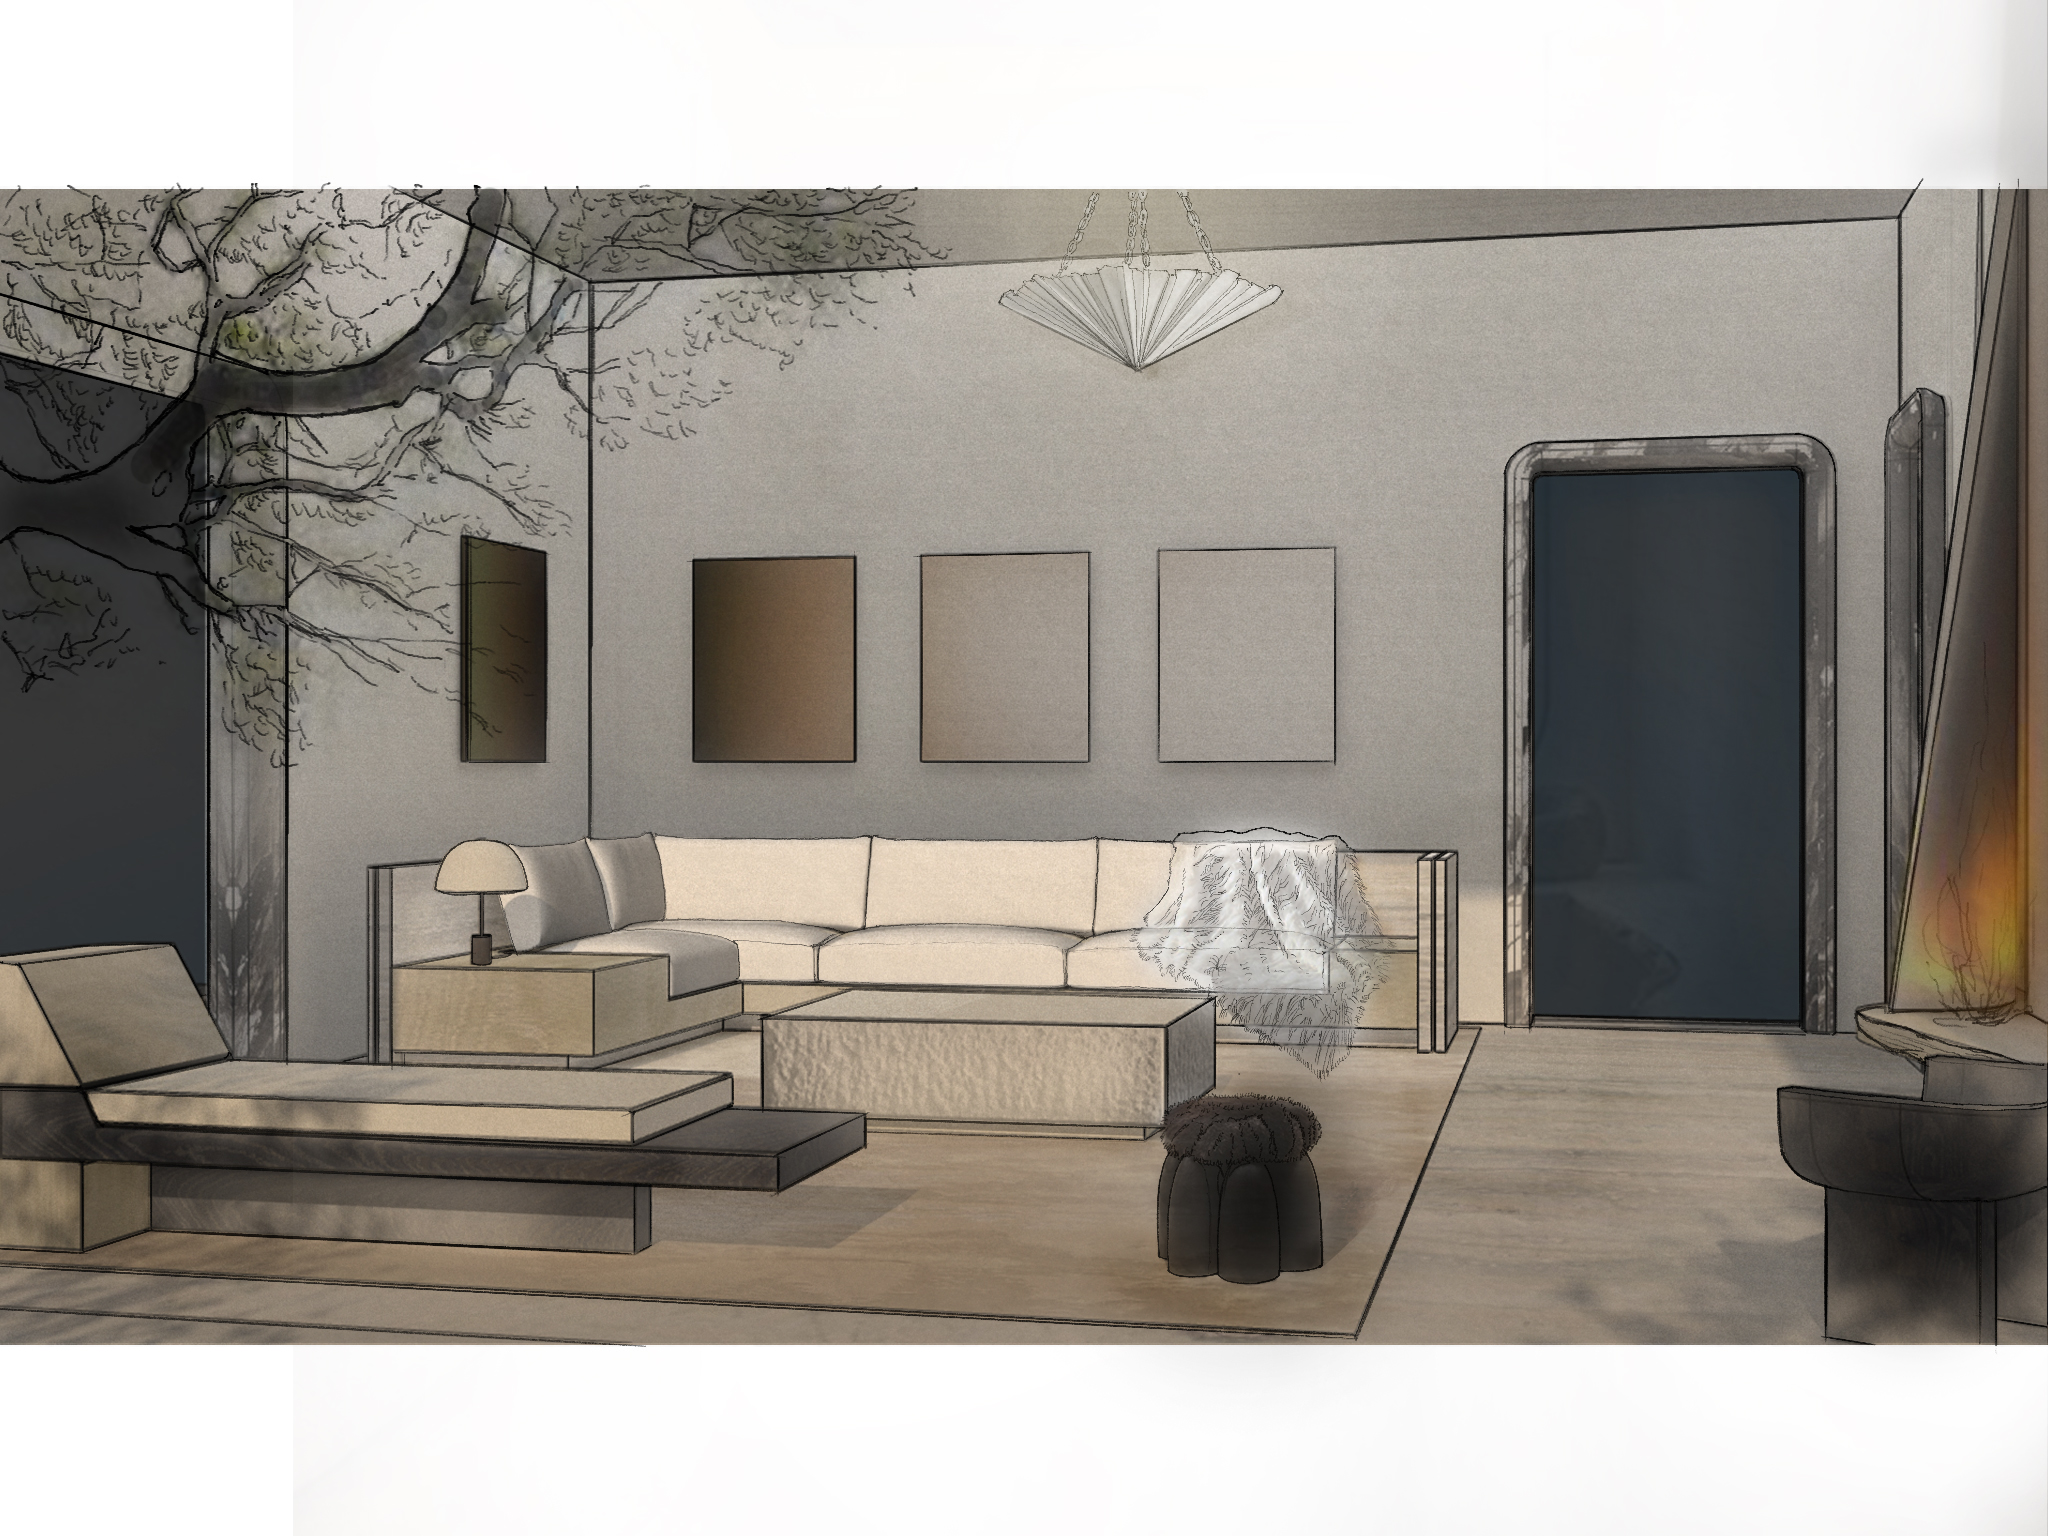
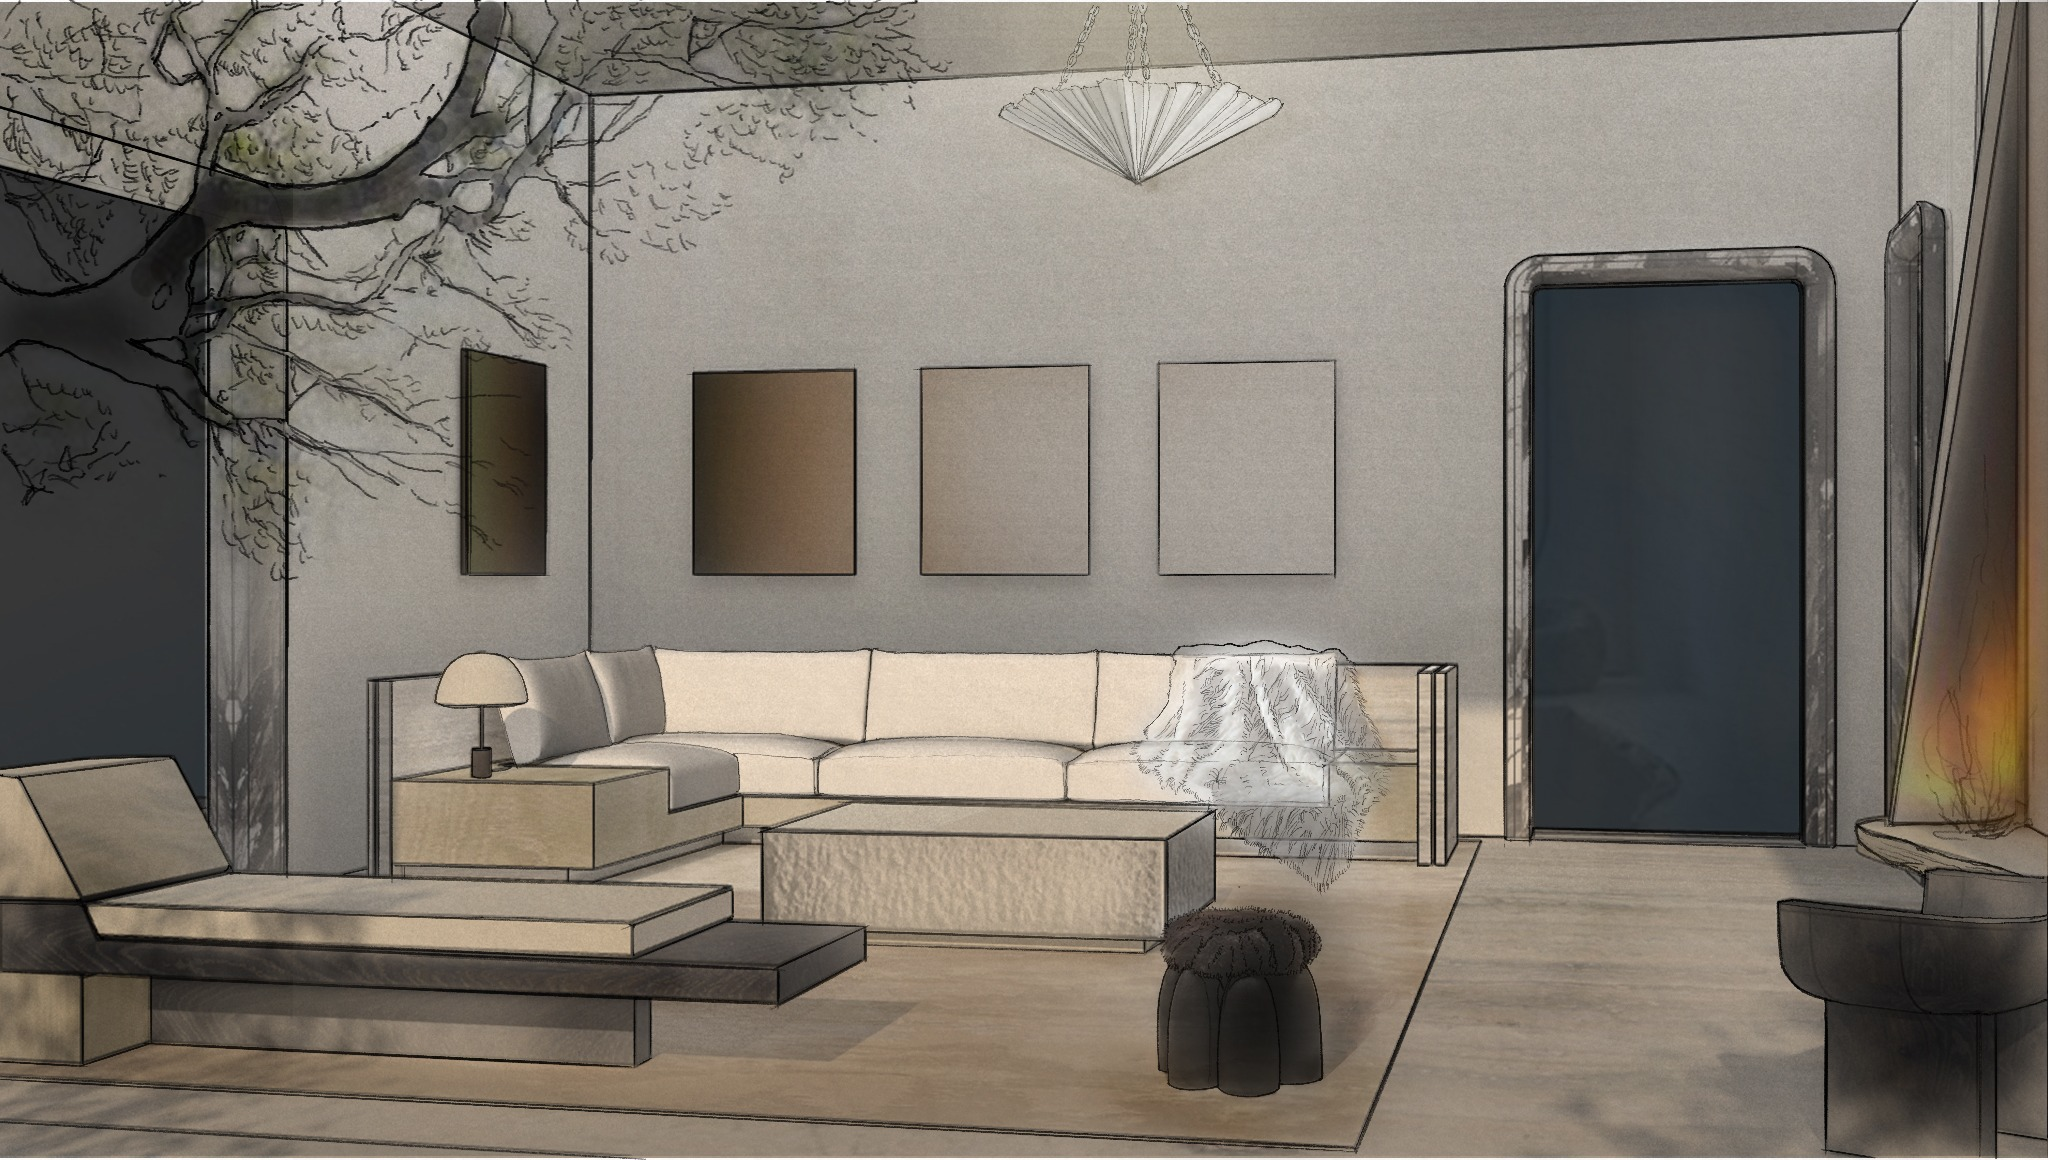
craft: stable layout — fixed stage div, contain images, crop living-room white margins
The user wants the slide div box to have CONSTANT dimensions across all
slides (so the page layout never jumps when navigating), while images
themselves keep their natural aspect ratio (no cropping).

Image file fix:
- assets/craft/living room.jpg cropped from 2048×1536 (4:3 with 189px
  white top + 191px white bottom margins baked into the JPG file) to
  2048×1160 (16:9 of just the artwork, no white borders). Done with
  PIL — pixel-walked from top and bottom to find first non-white row,
  cropped with 2px safety margin. The "shadow" effect was actually
  these baked-in white margins meeting the white page background.

Stage layout (css/craft.css):
- Revert to fixed aspect-ratio on .craft-stage: 4/3 on desktop (covers
  most landscape images cleanly — only 2 outlier images < 4:3) and 4/5
  on mobile (portrait-friendly).
- Switch image back to object-fit: contain (was cover) — never crops,
  fits naturally with letterbox/pillarbox.
- Stage div size is constant across slides → page layout stable; image
  inside fits without cropping → consistent landscape widths.

JS revert (js/craft.js):
- Remove setStageAspectFromImage() — no longer needed since stage
  aspect is fixed in CSS again.

Bumped craft.css to v=20260503d, craft.js to v=20260503b.

diff --git a/css/craft.css b/css/craft.css
@@ -146,11 +146,11 @@
   background: var(--surface-page-default);
   touch-action: pan-y;
   user-select: none;
-  /* Default aspect for first paint before JS runs. js/craft.js sets a
-     per-slide aspectRatio inline-style based on the current image's
-     natural dimensions, so each slide's stage exactly matches its
-     image (no letterbox / no cropping — portraits stay portrait,
-     landscapes stay landscape). */
+  /* Fixed 4:3 aspect ratio: the stage div has constant dimensions across
+     all slides, so the page layout never jumps when navigating between
+     images of different aspect ratios. Image inside uses object-fit:
+     contain so it's never cropped — it fits naturally within the box,
+     with letterbox / pillarbox filling the rest of the stage. */
   aspect-ratio: 4 / 3;
 }
 
@@ -160,11 +160,11 @@
   inset: 0;
   width: 100%;
   height: 100%;
-  /* Cover (not contain) — the image fills the stage edge-to-edge. This
-     also crops out any white borders baked into source image files
-     (e.g. hand-drawn renders that have been exported with a white margin),
-     which previously read as a "shadow" effect against the white page bg. */
-  object-fit: cover;
+  /* Contain — preserve the image's natural aspect, never crop. Landscape
+     images > 4:3 fit by width (consistent width across landscape slides);
+     near-square or portrait images fit by height. The page layout is
+     stable because the surrounding stage box never changes size. */
+  object-fit: contain;
   /* Shown via .is-current; animate opacity + a tiny scale as it arrives */
   opacity: 0;
   transform: scale(0.995);
@@ -445,9 +445,11 @@
   }
 
   .craft-stage {
-    /* Mobile uses the same JS-driven adaptive aspect as desktop —
-       no max-height so the image always fills the stage at its natural
-       aspect (portraits stay portrait, landscapes stay landscape). */
+    /* Mobile uses 4/5 (slightly portrait) since the screen is portrait
+       — works better for the deck which has a mix of landscape and
+       portrait images. Same fixed-size + object-fit: contain principle
+       as desktop: stage size is constant, image fits naturally inside. */
+    aspect-ratio: 4 / 5;
     width: 100%;
   }
 

diff --git a/js/craft.js b/js/craft.js
@@ -126,24 +126,6 @@
   var current = -1;
   var pad2 = function (n) { return String(n).padStart(2, "0"); };
 
-  // Adaptive stage aspect-ratio. Each slide's stage takes its image's
-  // natural aspect, so portraits stay portrait, landscapes stay landscape,
-  // and the image always fills the stage edge-to-edge (no letterboxing,
-  // no cropping). Stage WIDTH is constant (= grid column width); HEIGHT
-  // adapts per slide.
-  function setStageAspectFromImage(img) {
-    var apply = function () {
-      if (img && img.naturalWidth > 0 && img.naturalHeight > 0) {
-        stage.style.aspectRatio = img.naturalWidth + " / " + img.naturalHeight;
-      }
-    };
-    if (img.complete && img.naturalWidth) {
-      apply();
-    } else {
-      img.addEventListener("load", apply, { once: true });
-    }
-  }
-
   function currentChapterFor(index) {
     var chapter = slides[index].chapter;
     // Highlight the chapter button whose span covers this slide (i.e. the
@@ -181,9 +163,6 @@
     imageEls.forEach(function (img, i) {
       img.classList.toggle("is-current", i === current);
     });
-
-    // Adapt stage to the new image's aspect so it fills edge-to-edge.
-    setStageAspectFromImage(imageEls[current]);
 
     // Update dots
     dotEls.forEach(function (dot, i) {

diff --git a/index.html b/index.html
@@ -17,7 +17,7 @@
     <link rel="preload" as="image" href="assets/optimized/01-savvy-defi-1.png?v=20260314b" />
     <link rel="stylesheet" href="css/main.css?v=20260503a" />
     <link rel="stylesheet" href="css/about.css?v=20260503a" />
-    <link rel="stylesheet" href="css/craft.css?v=20260503c" />
+    <link rel="stylesheet" href="css/craft.css?v=20260503d" />
   </head>
   <body>
     <div class="portfolio-site">
@@ -115,7 +115,7 @@
     <script src="js/project-renderer.js?v=20260314b"></script>
     <script src="js/main.js?v=20260421j"></script>
     <script src="js/craft-data.js?v=20260421j"></script>
-    <script src="js/craft.js?v=20260503a"></script>
+    <script src="js/craft.js?v=20260503b"></script>
     <script src="js/mobile-snap.js?v=20260503f"></script>
   </body>
 </html>
